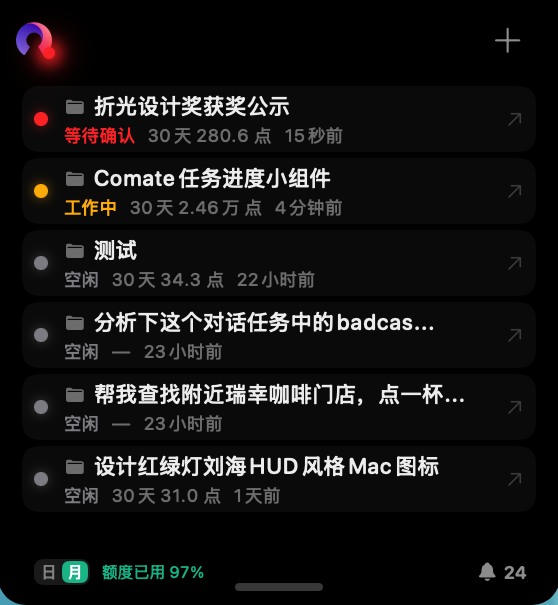
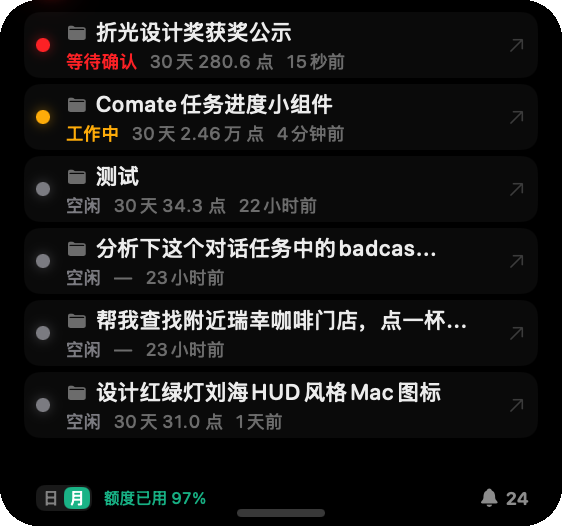
图片下边缘的区域需要做圆角处理，另外需要展示动图，可以基于代码实现下吗，可以重新截图效果作为参考。另外现在截图上面区域的胶囊内容，好像不需要了吧

diff --git a/ComateHUD/index.html b/ComateHUD/index.html
@@ -84,15 +84,7 @@
     .mockup-titlebar .dot-y { width: 12px; height: 12px; border-radius: 50%; background: #febc2e; }
     .mockup-titlebar .dot-g { width: 12px; height: 12px; border-radius: 50%; background: #28c840; }
     .mockup-body { padding: 40px 32px 48px; display: flex; flex-direction: column; align-items: center; gap: 24px; }
-    .sim-hud { display: flex; align-items: center; gap: 10px; background: #1a1a22; border-radius: 40px; padding: 10px 18px; box-shadow: 0 0 0 1px rgba(255,255,255,0.06), 0 8px 32px rgba(0,0,0,0.6); }
-    .sim-hud .logo { width: 26px; height: 26px; border-radius: 7px; display: flex; align-items: center; justify-content: center; font-size: 13px; font-weight: 800; color: white; background: linear-gradient(135deg, #0a84ff, #bf5af2); }
-    .sim-hud .sim-light { width: 8px; height: 8px; border-radius: 50%; }
-    .sim-hud .sim-light.green { background: var(--green); box-shadow: 0 0 8px var(--green); }
-    .sim-hud .sim-light.yellow { background: var(--yellow); box-shadow: 0 0 8px var(--yellow); animation: breathe 2s ease-in-out infinite; }
-    .sim-hud .sim-light.red { background: var(--red); box-shadow: 0 0 8px var(--red); animation: blink 0.55s ease-in-out infinite; }
-    .sim-hud .sim-badge { font-size: 11px; font-weight: 600; color: var(--text-secondary); background: rgba(255,255,255,0.06); padding: 3px 10px; border-radius: 999px; }
-    .sim-hud .sim-bell { width: 22px; height: 22px; border-radius: 50%; background: rgba(255,255,255,0.06); display: flex; align-items: center; justify-content: center; font-size: 11px; color: var(--text-secondary); }
-    .mockup-shot { width: 280px; height: auto; display: block; box-shadow: 0 12px 40px rgba(0,0,0,0.6); }
+    .mockup-shot { width: 280px; height: auto; display: block; border-radius: 19px; filter: drop-shadow(0 12px 40px rgba(0,0,0,0.6)); }
     .features { padding: 80px 0; }
     .features-grid { display: grid; grid-template-columns: repeat(auto-fit, minmax(300px, 1fr)); gap: 20px; }
     .feature-card { background: var(--bg-card); border: 1px solid rgba(255,255,255,0.06); border-radius: var(--radius); padding: 36px 28px; transition: all 0.3s cubic-bezier(0.22,1,0.36,1); position: relative; overflow: hidden; }
@@ -278,9 +270,6 @@
     <div class="mockup-wrapper">
       <div class="mockup-titlebar"><div class="dot-r"></div><div class="dot-y"></div><div class="dot-g"></div></div>
       <div class="mockup-body">
-        <div class="sim-hud">
-          <div class="logo">C</div><div class="sim-light yellow"></div><div class="sim-badge">7 任务</div><div class="sim-bell">🔔</div>
-        </div>
         <img class="mockup-shot" src="./assets/hud-real.png" alt="Comate HUD 真实运行截图：刘海区展开的任务面板，含状态灯、最近任务列表与耗时" />
       </div>
     </div>
